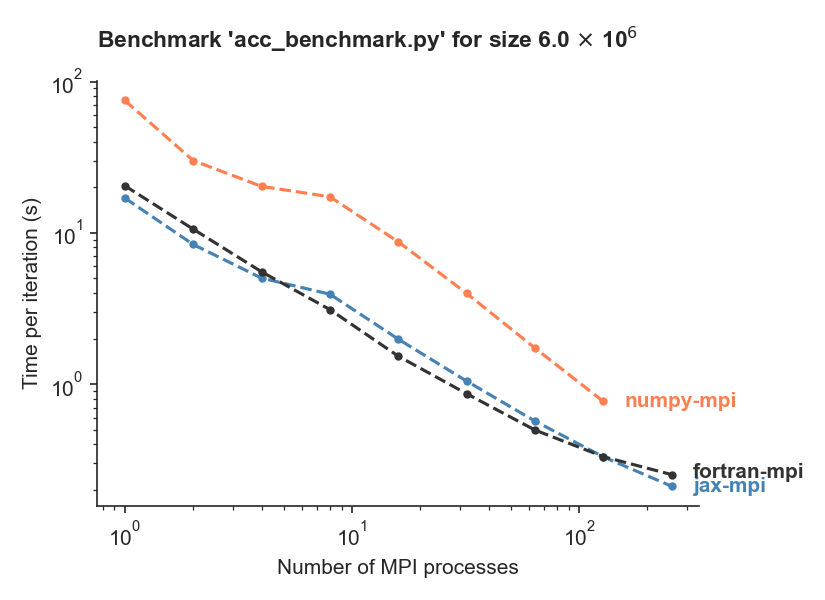
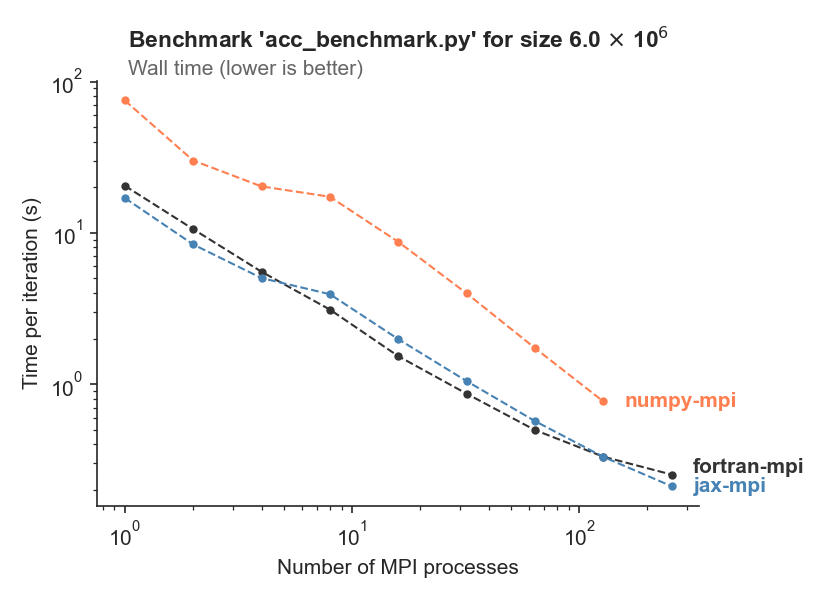
fine-tune benchmark plots

diff --git a/doc/plot_benchmarks.py b/doc/plot_benchmarks.py
@@ -82,7 +82,7 @@ def plot_benchmarks(infiles, xaxis, norm_component):
             else:
                 yvals = component_data[benchmark][component]
 
-            plt.plot(xvals, yvals, ".--", color=COMPONENT_COLORS[component])
+            plt.plot(xvals, yvals, ".--", color=COMPONENT_COLORS[component], lw=1)
 
             finite_mask = np.isfinite(yvals)
             if finite_mask.any():
@@ -93,7 +93,7 @@ def plot_benchmarks(infiles, xaxis, norm_component):
         ax.spines["right"].set_visible(False)
         ax.spines["top"].set_visible(False)
 
-        title_kwargs = dict(fontdict=dict(weight="bold", size=11), ha="left", x=0, y=1.05)
+        title_kwargs = dict(fontdict=dict(weight="bold", size=11), ha="left", x=0.05, y=1.05)
         if xaxis == "nproc":
             plt.xlabel("Number of MPI processes")
             mantissa, exponent = f"{list(sizes)[0]:.1e}".split("e")
@@ -106,20 +106,24 @@ def plot_benchmarks(infiles, xaxis, norm_component):
             plt.title(f"Benchmark '{benchmark}' on {nproc} processes", **title_kwargs)
 
             if norm_component:
-                plt.axhline(nproc, linestyle="dashed", alpha=0.4, lw=1, color="C0")
+                plt.axhline(nproc, linestyle="dashed", alpha=0.5, lw=1, color="C0")
                 plt.annotate(
                     "Perfect CPU scaling",
                     (min(xvals), nproc),
-                    xytext=(0, 2),
+                    xytext=(0, -2),
                     textcoords="offset points",
-                    alpha=0.4,
+                    alpha=0.5,
                     color="C0",
+                    va="top",
+                    fontsize=8,
                 )
 
         if norm_component:
             plt.ylabel("Relative speedup")
+            plt.text(0.05, 1.05, "Speedup (higher is better)", transform=ax.transAxes, va="top", color="0.4")
         else:
             plt.ylabel("Time per iteration (s)")
+            plt.text(0.05, 1.05, "Wall time (lower is better)", transform=ax.transAxes, va="top", color="0.4")
 
         plt.xscale("log")
         plt.yscale("log")
@@ -131,7 +135,7 @@ def plot_benchmarks(infiles, xaxis, norm_component):
         for component, (x, y) in sorted(last_coords.items(), key=lambda k: k[1][1]):
             trans = ax.transData
             _, tp = trans.transform((0, y))
-            tp = max(tp, last_text_pos + 15)
+            tp = max(tp, last_text_pos + 20)
             _, y = trans.inverted().transform((0, tp))
 
             plt.annotate(
@@ -148,7 +152,12 @@ def plot_benchmarks(infiles, xaxis, norm_component):
             last_text_pos = tp
 
         fig.tight_layout()
-        fig.savefig(f"{benchmark}.png")
+
+        suffix = ""
+        if norm_component:
+            suffix = f"-norm_{norm_component}"
+
+        fig.savefig(f"{benchmark}-{xaxis}{suffix}.png")
         plt.close(fig)
 
 

diff --git a/doc/more/benchmarks.rst b/doc/more/benchmarks.rst
@@ -11,6 +11,9 @@ Varying problem size
 
 This benchmark varies the size of the computational domain and records the runtime per iteration. It is executed on a single machine with 24 CPU cores and an NVidia Tesla P100 GPU.
 
+We run the same model code with all Veros backends (``numpy``, ``numpy-mpi``, ``jax``, ``jax-mpi``, ``jax-gpu``) and PyOM2 (``fortran``, ``fortran-mpi``).
+
+
 .. figure:: /_images/benchmarks/acc_scaling_size.png
    :width: 500px
    :align: center
